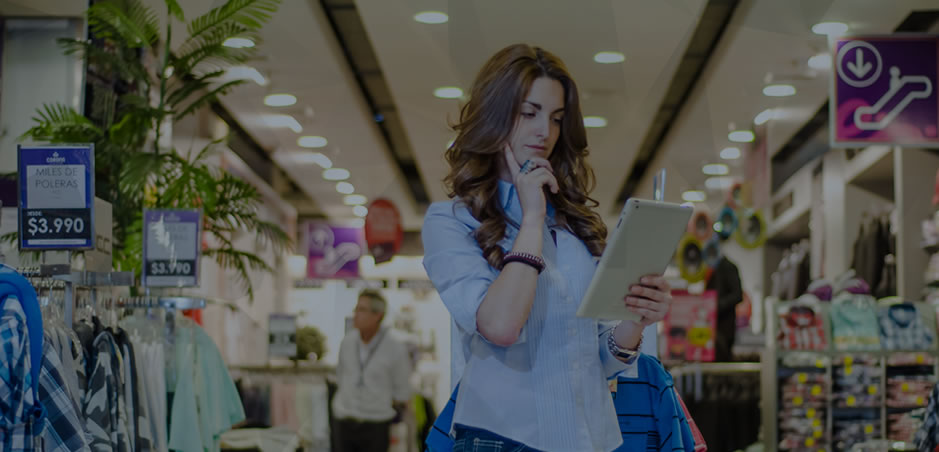
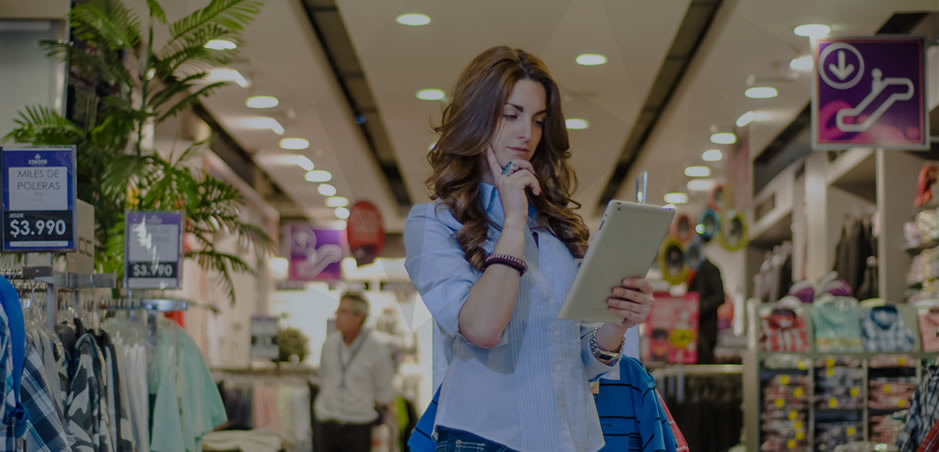
other bckg

diff --git a/css/main.css b/css/main.css
@@ -3,7 +3,7 @@ a {
 
 .green-btn {
   color: white;
-  background-color: #95d700;
+  background-color: #95D700;
   border-radius: 5px;
   font-family: 'Open Sans', sans-serif;
   padding: 10px 30px !important;
@@ -37,31 +37,34 @@ body .se-container {
     transform-origin: left center; }
     body .se-container .se-slope:nth-child(even) {
       transform: rotate(5deg);
-      margin-top: -200px;
-      box-shadow: 0px -1px 3px rgba(0, 0, 0, 0.4); }
+      margin-top: -200px; }
       body .se-container .se-slope:nth-child(even) .se-content {
         transform: rotate(-5deg);
         color: #e90089;
         padding: 130px 100px 250px 100px; }
         body .se-container .se-slope:nth-child(even) .se-content h3 {
-          background: #e90089;
-          color: #000; }
+          color: white;
+          font-size: 1.5714em;
+          font-family: 'Open Sans', sans-serif;
+          font-weight: 600; }
+        body .se-container .se-slope:nth-child(even) .se-content p {
+          color: white; }
     body .se-container .se-slope:nth-child(odd) {
-      background: #e90089;
-      transform: rotate(-5deg);
-      box-shadow: 0px 2px 3px rgba(0, 0, 0, 0.4) inset; }
+      background: white;
+      transform: rotate(-5deg); }
       body .se-container .se-slope:nth-child(odd) .se-content {
         transform: rotate(5deg);
         color: #000;
         padding: 150px 100px 250px 100px; }
         body .se-container .se-slope:nth-child(odd) .se-content h3 {
-          background: #000;
           color: #e90089; }
   body .se-container .nojoda {
     background: url("../img/bckg/home_1slider_1.jpg") no-repeat;
     background-size: 100%;
-    height: 630px; }
+    height: 650px; }
   body .se-container .home-bckg {
-    background: url("../img/bckg/home_bckg3.jpg") no-repeat;
+    background: url("../img/bckg/home_bckg.png") no-repeat;
     background-size: 100%;
-    height: 630px; }
+    height: 500px; }
+
+/*# sourceMappingURL=main.css.map */

diff --git a/css/sass/_home.scss b/css/sass/_home.scss
@@ -10,27 +10,31 @@ body {
 			&:nth-child(even) {
 				transform: rotate(5deg);
 				margin-top: -200px;
-				box-shadow: 0px -1px 3px rgba(0,0,0,0.4);
+				// box-shadow: 0px -1px 3px rgba(0,0,0,0.4);
 				.se-content {
 					transform: rotate(-5deg);
 					color: #e90089;
 					padding: 130px 100px 250px 100px;
 					h3 {
-						background: #e90089;
-						color: #000;
+						color: white;
+						font-size: 1.5714em;
+						font-family: 'Open Sans', sans-serif;
+						font-weight: 600;
+					}
+					p {
+						color: white;
 					}
 				}
 			}
 			&:nth-child(odd) {
-				background: #e90089;
+				background: white;
 				transform: rotate(-5deg);
-				box-shadow: 0px 2px 3px rgba(0,0,0,0.4) inset;
+				// box-shadow: 0px 2px 3px rgba(0,0,0,0.4) inset;
 				.se-content {
 					transform: rotate(5deg);
 					color: #000;
 					padding: 150px 100px 250px 100px;
 					h3 {
-						background: #000;
 						color: #e90089;
 					}
 				}
@@ -39,12 +43,12 @@ body {
 		.nojoda {
 			background: url('../img/bckg/home_1slider_1.jpg') no-repeat;
 			background-size: 100%;
-			height: 630px;
+			height: 650px;
 		}
 		.home-bckg {
-			background: url('../img/bckg/home_bckg3.jpg') no-repeat;
+			background: url('../img/bckg/home_bckg.png') no-repeat;
 			background-size: 100%;
-			height: 630px;
+			height: 500px;
 		}
 	}
 }

diff --git a/index.html b/index.html
@@ -51,10 +51,12 @@
 		<div class="nojoda">
 		</div>
 		<div class="home-bckg se-slope">
-			<article class="se-content">
-				<h3>Some headline</h3>
-				<p>Some text</p>
-			</article>
+			<div class="container">
+				<article class="se-content">
+					<h3>QUIÉNES SOMOS</h3>
+					<p>Somos una empresa joven que crece a la par con la tecnología desarrollamos un sistema de levantamiento de datos. y entrega de información que permite dar soluciones en tiempo real a las necesidades que el mercado manda.</p>
+				</article>
+			</div>	
 		</div>
 		<div class="se-slope">
 			<article class="se-content">
